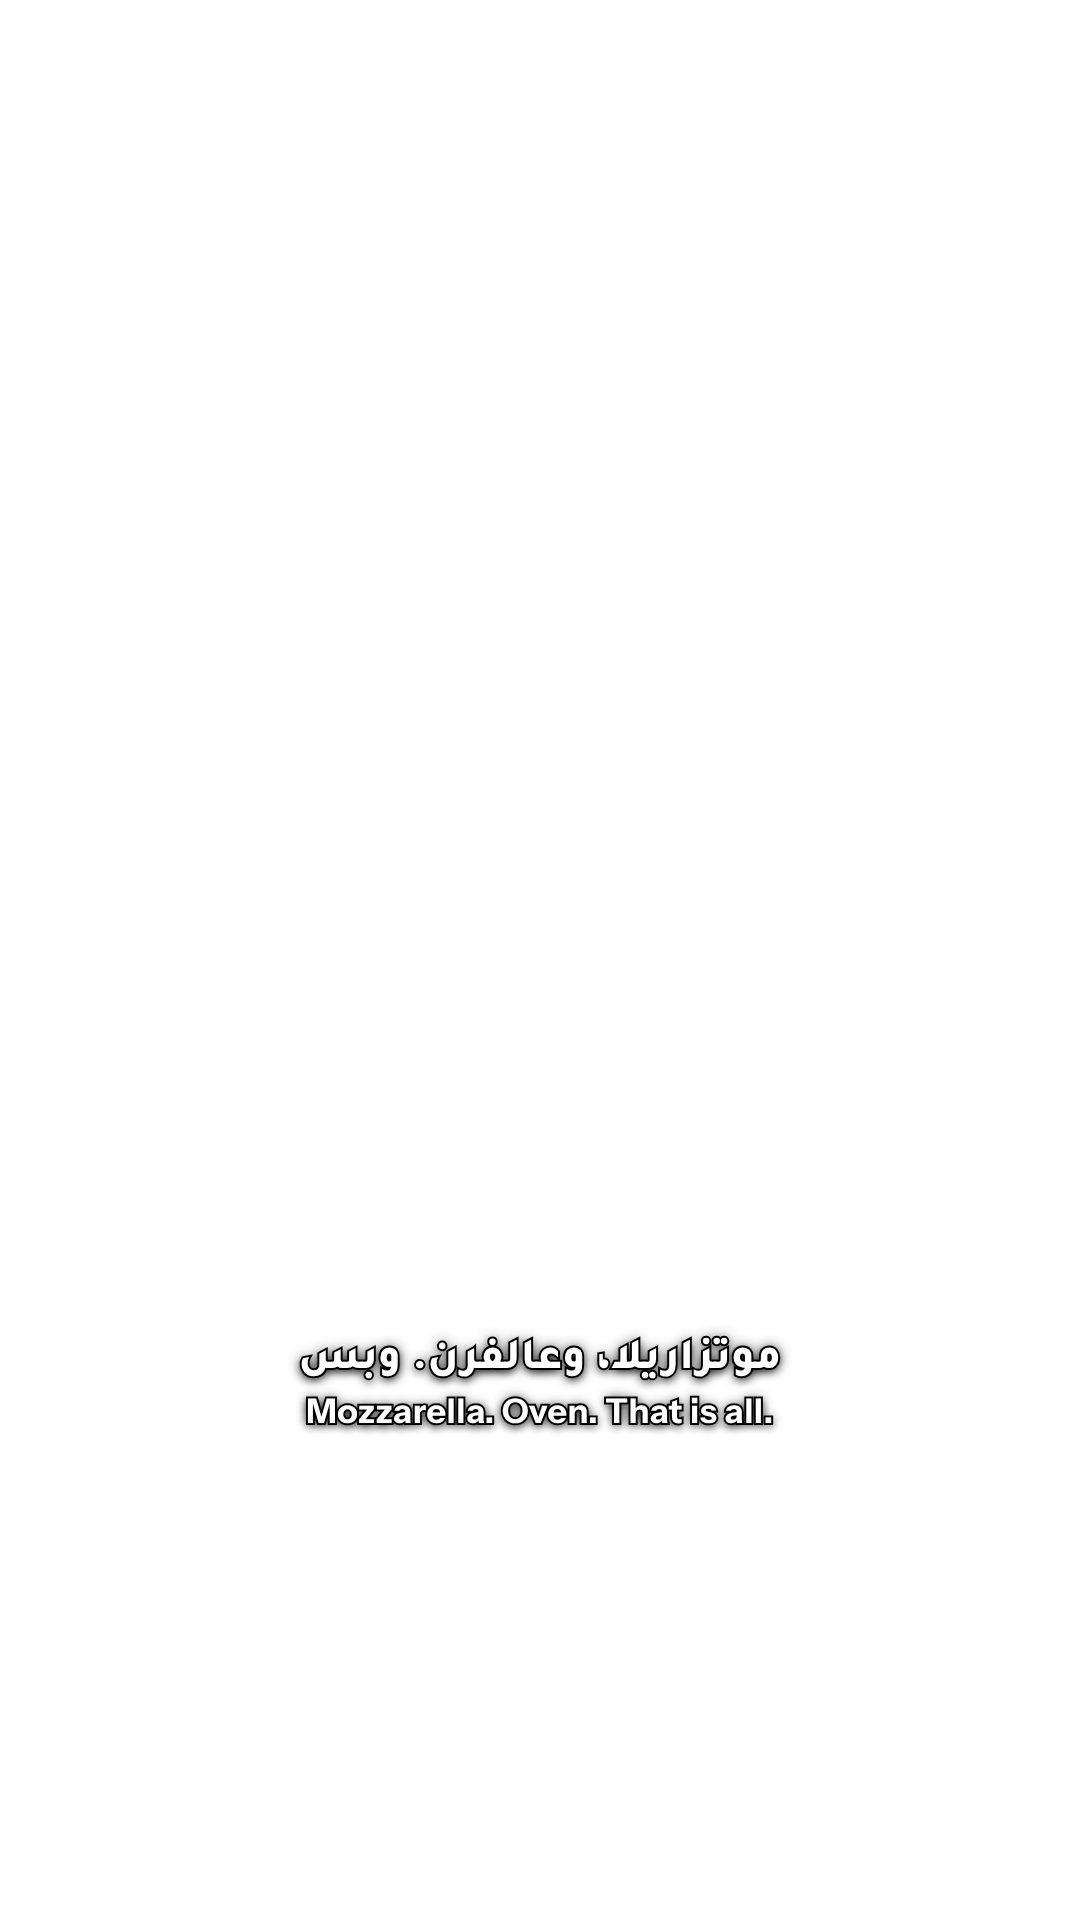
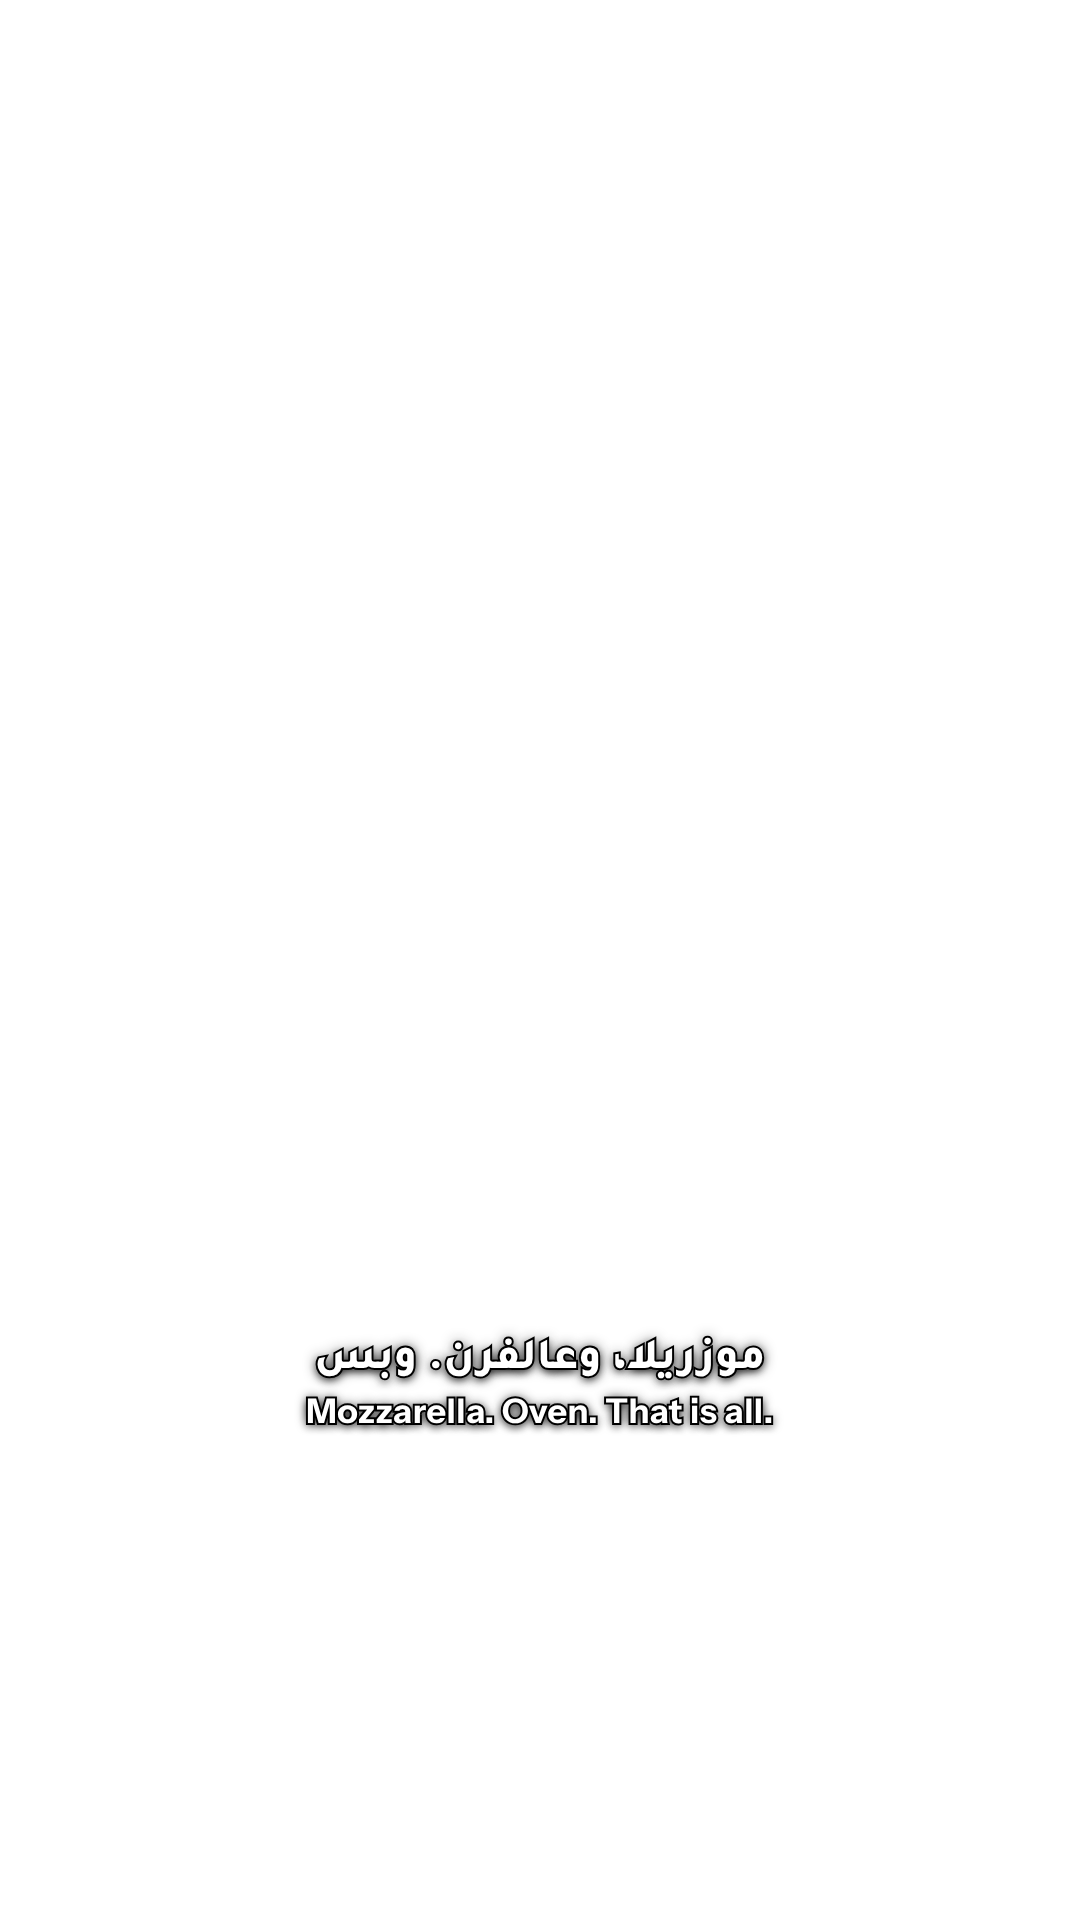
Honeycomb pasta pie v3: about 12 s with push-ins, mozzarella spelled as the owner writes it
Claude-Session: https://claude.ai/code/session_01TTQeKAFA689qdG4vjzm6Ms

Changed region(s): [[0.275, 0.6875, 0.7333, 0.7188]]

diff --git a/content-studio/edits/honeycomb-pasta-pie/edit_pie.py b/content-studio/edits/honeycomb-pasta-pie/edit_pie.py
@@ -7,16 +7,16 @@
 import subprocess, re
 FPS = 24
 SRC = 'raw.mp4'
-SEGS = [  # (first frame, end frame, speed, label, audio filter[, push-in (zoom from, to)])
-    (0, 47, 1.5, 'the honeycomb, his hand pressing', '', (1.0, 1.12)),
-    (72, 105, 1.4, 'he pipes the ricotta (face)', ''),
-    (105, 128, 1.5, 'ricotta in every tube, macro', ''),
-    (128, 157, 1.2, 'fingertip, no sauce yet', ''),
-    (157, 205, 2.0, 'the marinara pour', ''),
+SEGS = [  # v3 (owner on v2: «الفيديو صار قصير كثير»): about 12 s, push-ins on the calm shots instead of more speed
+    (0, 47, 1.25, 'the honeycomb, his hand pressing', '', (1.0, 1.12)),
+    (72, 105, 1.0, 'he pipes the ricotta (face)', ''),
+    (105, 128, 1.0, 'ricotta in every tube, macro', '', (1.0, 1.1)),
+    (128, 157, 1.0, 'fingertip, no sauce yet', ''),
+    (157, 205, 1.3, 'the marinara pour', '', (1.0, 1.1)),
     (205, 229, 1.0, 'the spoon pushes the sauce into the tubes', ''),
-    (229, 264, 1.3, 'mozzarella falls', ',volume=-4dB'),
-    (264, 292, 1.5, 'the oven glass, bubbling', ''),
-    (292, 337, 1.35, 'the slice lifted', ',equalizer=f=3500:t=o:w=2:g=6,volume=8dB'),   # the crunch, frames 301-328
+    (229, 264, 1.1, 'mozzarella falls', ',volume=-4dB'),
+    (264, 292, 1.15, 'the oven glass, bubbling', '', (1.0, 1.1)),
+    (292, 337, 1.0, 'the slice lifted', ',equalizer=f=3500:t=o:w=2:g=6,volume=8dB', (1.0, 1.08)),   # the crunch, frames 301-328
 ]
 
 
@@ -85,7 +85,7 @@ run(['ffmpeg', '-v', 'error', '-y', *ins, '-filter_complex', ';'.join(fc), '-map
      '-frames:v', str(round(TOTAL * FPS)),
      '-c:v', 'libx264', '-preset', 'slow', '-crf', '16', '-profile:v', 'high', '-pix_fmt', 'yuv420p',
      '-color_primaries', 'bt709', '-color_trc', 'bt709', '-colorspace', 'bt709', '-color_range', 'tv', '-r', str(FPS),
-     '-c:a', 'aac', '-b:a', '256k', '-movflags', '+faststart', 'honeycomb-pasta-pie-v2.mp4'])
+     '-c:a', 'aac', '-b:a', '256k', '-movflags', '+faststart', 'honeycomb-pasta-pie-v3.mp4'])
 for s, e, lab in labels: print(f'{s:6.2f}-{e:6.2f}  {lab}')
 print('cards', [(c, round(s, 2), round(e, 2)) for c, s, e in CARDS])
-print('total', round(TOTAL, 3), 'mix', I, P, 'final', meas('honeycomb-pasta-pie-v2.mp4'))
+print('total', round(TOTAL, 3), 'mix', I, P, 'final', meas('honeycomb-pasta-pie-v3.mp4'))

diff --git a/content-studio/generation-log.md b/content-studio/generation-log.md
@@ -84,6 +84,7 @@ new kind of error, a new check line.
 | 2026-11-12 | Honeycomb Pasta Pie (the crinkle way: the Crinkle Cake reel as the only video reference) | Seedance 2.5 omni_reference, 14 s, 720x1280 H.264 (the site setting read 720p), bitrate high, audio; the crinkle reel (re-uploaded as 4017b231), the Chef-Ahmad element; generated by the owner on his unlimited (job 1bef36f0, seed 690617), 0 credits | The round black springform, the upright rigatoni honeycomb, ricotta in every tube, the fingertip on the dry tops, the pour, the spoon pushing the sauce into the holes, the oven glass, the slice with the standing tubes and the cheese stretch; bare hands; no text, no talking; cuts at 3.0, 4.38, 5.33, 6.54, 8.54, 9.54, 11.0, 12.17 | 1.95-3.0 s a fist alone under the pan; 3.0-4.4 s the piping shot became his medium shot with face, t-shirt, apron and black gloves (the element pulled his usual look); mozzarella falls as fine grated cheese; -28.9 LUFS | The element photo carries his outfit into any shot that frames more than hands | Next crinkle-way take: no element for a hands-only reel, or write the jacket into every shot; frame every shot on the hands | not posted |
 | 2026-11-12 | Honeycomb Pasta Pie, the edit v1 (the crinkle way) | Higgsfield sandbox, 0 credits; 11.625 s 1080x1920 H.264 (media f99a7649) | Trims only (the fist and the face shot cut), no flash, no reorder; the crinkle's six cards at its measured sizes and places; -14.5 LUFS; prepublish DEAD 9 / SLOW 1 of 23 against the crinkle's DEAD 10 / SLOW 4 of 28 | Upscaled from 720p; the piping step is gone with the face shot (its result shows) | | edits/honeycomb-pasta-pie | not posted |
 | 2026-11-12 | Honeycomb Pasta Pie, the edit v2 (owner: the face stays, speed the slow shots, the crunch loud) | Higgsfield sandbox, 0 credits; 9.21 s 1080x1920 H.264 (media bdb26061) | The face shot back; speeds 1.2-2.0x and a push-in on the opening; the slice crunch +8 dB with a 3.5 kHz lift, now the loudest; prepublish DEAD 1 / SLOW 5 of 19 (v1 DEAD 9 / SLOW 1 of 23); -14.6 LUFS | The last 0.2 s still (the cheese stretch under the crunch) | Unlimited renders 720p only (owner) | edits/honeycomb-pasta-pie | not posted |
+| 2026-11-12 | Honeycomb Pasta Pie, the edit v3 (owner: v2 too short; «موزريلا») | Higgsfield sandbox, 0 credits; 11.875 s 1080x1920 H.264 (media 7654da47) | Speeds 1.0-1.3 with slow push-ins on the calm shots; the slice crunch the loudest; prepublish DEAD 1 / SLOW 7 of 24; -14.6 LUFS | | Length: the owner wants about 12 s, not 9; motion from push-ins, not only speed | edits/honeycomb-pasta-pie | not posted |
 | 2026-11-12 (3 h 27 min) | Onion Garlic Chicken Pasta, second read | (posted 4:30 PM) | share, save, repost and comment rates "higher"; Reels tab 81.9%, Explore 13.6% (the first hour's Feed 100% was only the start) | 2,346 views (6th of the last 10), 1,312 viewers, avg 5.87 s of 12.3 s, skip 59.2% ("higher"), 6 likes, 1 comment, 2 reposts, 3 shares, 3 saves, 1 follow; 97.4% non-followers. Retention off the graph: about 82% at 1 s, 51% at 2 s, 44% at 3 s, 34% at 6 s, 16% at the end | The 0.67 s flash then raw onions (see the 1 h read) | Compare with the potato's opening (next row) | 3.5 h: skip 59.2%, avg 5.87 s, end ~16%, 1.3 shares/1K, 1.3 saves/1K |
 | 2026-11-12 (1 h 17 min) | Crispy Potato Nests v1, first read (posted 6:40 PM as a trial reel, non-followers only) | (see the edit row) | skip "lower" than typical; like, save and comment rates "higher" | 1,432 views (9th of the last 10, still young), 788 viewers, avg 5.57 s of 10.4 s, skip 47.7%, 6 likes, 1 comment, 0 shares, 4 saves, 0 follows; 100% non-followers. Retention: about 84% at 1 s, 72% at 2 s, 56% at 3 s, 41% at 5 s, 22% at the end. Meta shows its automatic "AI info" label on it | Against the pasta: +21 points at 2 s (the face, the bite's crunch and the hook held), then -16 points from 2 to 3 s while the raw sticks, the water and the mix play and the hook card changes to the rehook at 1.83 s. The label is not blocking reach: more views at 1 h 17 min than Honey v5 (996) or Kibbeh (1,320) at the same age | Owner: wait for the no-text Pan Chocolate Cake read before changing the text. Next variable to test after it: no raw prep before 3 s (the bite, then the sizzle). Owner's verdict: «الفيديو ضعيف», not the AI label (check 21) | 1 h 17 min: skip 47.7%, avg 5.57 s, end ~22%, 0 shares, 2.8 saves/1K |
 | 2026-11-12 (first read) | Ad film "No Secrets" v3, trial reel to non-followers | (see the row above) | 11% stayed from 5 s to the end (19 s); comment rate 2.6% "higher" | Retention ~90% at 1 s, ~22% at 1.9 s, ~11% from 5 s; reposts 0%; Reels tab 90%, Explore 10% | The book cover close-up with «٣٦١ وصفة؟!» at 0.7-1.7 s (an ad signal); talking heads; the food first at 8.7 s | Skill rule: no product before the food in an organic reel; open on the food or the reaction | 90% at 1 s, 22% at 1.9 s, 11% end |

diff --git a/content-studio/edits/honeycomb-pasta-pie/edit-notes.md b/content-studio/edits/honeycomb-pasta-pie/edit-notes.md
@@ -1,6 +1,12 @@
 # Honeycomb Pasta Pie: the edit, the crinkle way (2026-11-12)
 
-## v2 (the one to use): https://d2ol7oe51mr4n9.cloudfront.net/user_2x0tp0odsOo92J2AkNG46XQD8Gw/bdb26061-544f-4324-a5de-9412eb398b84.mp4
+## v3 (the one to use): https://d2ol7oe51mr4n9.cloudfront.net/user_2x0tp0odsOo92J2AkNG46XQD8Gw/7654da47-6c43-416b-9033-53109f142838.mp4
+Media 7654da47-6c43-416b-9033-53109f142838, 1080x1920 H.264, 11.875 s (285 frames), -14.6 LUFS, -1.3 dBTP. Build: `edit_pie.py`.
+Owner on v2: «الفيديو صار قصير كثير وانت كاتب موتزريلاء بدلا موزريلاء». Speeds back near 1x (1.0-1.3), slow push-ins on the
+calm shots (opening 1.00-1.12, ricotta macro, pour, oven, slice 1.00-1.10) instead of more speed; the card spelled «موزريلا».
+prepublish: DEAD 1 (2.0 s, the face shot at 1x), SLOW 7 of 24; loudest 11.5, 11.0, 10.5 s (the slice crunch), then 0.0 s.
+
+## v2 (replaced, 9.21 s: too short): https://d2ol7oe51mr4n9.cloudfront.net/user_2x0tp0odsOo92J2AkNG46XQD8Gw/bdb26061-544f-4324-a5de-9412eb398b84.mp4
 Media bdb26061-544f-4324-a5de-9412eb398b84, 1080x1920 H.264, 9.21 s, -14.6 LUFS, -1.2 dBTP. Build: `edit_pie.py` (v1: `edit_pie_v1.py`).
 Owner on v1: «عادي الوجه يضل بس أشياء بطيئة سرعها وصوت الهرش يكون قوي»; unlimited renders 720p only, higher costs credits.
 | Output | Source frames | Shot | Speed | Sound |
@@ -15,7 +21,7 @@ Owner on v1: «عادي الوجه يضل بس أشياء بطيئة سرعها 
 | 7.04-7.83 | 264-292 | the oven glass | 1.5x | |
 | 7.83-9.21 | 292-337 | the slice lifted, the crunch | 1.35x | +8 dB, +6 dB at 3.5 kHz: the loudest sound |
 Cards: title 0-1.29 (off before the face shot, its y 529 is his chin), hook 0-2.29 (on his apron in the face shot),
-proof 2.29-4.42, the right way 4.42-5.92, «موتزاريلا، وعالفرن. وبس» 5.92-7.44, the question 7.44-9.21.
+proof 2.29-4.42, the right way 4.42-5.92, «موزريلا، وعالفرن. وبس» 5.92-7.44, the question 7.44-9.21.
 prepublish: DEAD 1 (the last 0.2 s, the cheese stretch under the crunch), SLOW 5 of 19 (v1: DEAD 9, SLOW 1 of 23);
 loudest 9.0, 8.5, 8.0 s (the slice crunch), then 0.0 s.
 
@@ -57,7 +63,7 @@ The crinkle: title about 28 px at y 531-593 and the hook about 30 px at y 1238-1
 | 0.00-2.92 | title «فطيرة الباستا قرص العسل (كيكة الريغاتوني)» / "Honeycomb Pasta Pie (Rigatoni Cake)" (y 529) + hook «خلط الباستا بالصلصة هو الغلطة» / "Mixing the pasta with the sauce is the mistake" (y 1237) |
 | 2.92-5.00 | «لسا ولا نقطة صلصة» / "Still not a drop of sauce" |
 | 5.00-7.12 | «هون بتنزل. جوّا الأنابيب» / "Here it goes. Inside the tubes." |
-| 7.12-8.90 | «موتزاريلا، وعالفرن. وبس» / "Mozzarella. Oven. That is all." |
+| 7.12-8.90 | «موزريلا، وعالفرن. وبس» / "Mozzarella. Oven. That is all." |
 | 8.90-11.62 | «بتخلط الباستا بالصلصة؟» / "Do you mix pasta and sauce?" |
 Keyword CTA in the caption and the pinned comment only (RIGATONI / «ريغاتوني»), as the crinkle.
 

diff --git a/content-studio/hook-log.md b/content-studio/hook-log.md
@@ -29,4 +29,4 @@ Right Way, #8 Insider Leak, #10 If This Then Watch, #12 Objection, #13 Before/Af
 #20 Permission, #22 Contrarian Flip, #23 Statistic, #24 Reveal, #25 Someone Else's Result.
 | Onion Garlic Chicken Pasta (edited 2026-11-12, 12.29 s) | none: the sweet potato way, a 0.67 s fork flash, then raw onions to 3.6 s | none | «اكتب «باستا» 👇» / "Comment PASTA 👇" over the bite only. 1 h: skip 61.9% |
 | Crispy Potato Nests (edited 2026-11-12, 10.4 s, the pistachio way) | الطريقة الوحيدة ولادك بينسوا الشيبس (Superlative for the family cook; hookscore 84.2) | بلا ٤ معالق نشا… بتطرى (Cause of a failure; 81.4) | «اكتب «بطاطا» 👇» / "Comment POTATO 👇" on the last face shot only |
-| Honeycomb Pasta Pie (edited 2026-11-12, 11.6 s, the crinkle way) | خلط الباستا بالصلصة هو الغلطة (X is the mistake, the crinkle's own shape) | لسا ولا نقطة صلصة (the crinkle's proof line) | «هون بتنزل. جوّا الأنابيب»، «موتزاريلا، وعالفرن. وبس»، «بتخلط الباستا بالصلصة؟»; keyword RIGATONI in the caption and pinned comment only |
+| Honeycomb Pasta Pie (edited 2026-11-12, 11.6 s, the crinkle way) | خلط الباستا بالصلصة هو الغلطة (X is the mistake, the crinkle's own shape) | لسا ولا نقطة صلصة (the crinkle's proof line) | «هون بتنزل. جوّا الأنابيب»، «موزريلا، وعالفرن. وبس»، «بتخلط الباستا بالصلصة؟»; keyword RIGATONI in the caption and pinned comment only |

diff --git a/.claude/skills/reels-director/SKILL.md b/.claude/skills/reels-director/SKILL.md
@@ -74,6 +74,8 @@ Every new reel, the crinkle way:
    box, middle of the frame; the keyword CTA moves to the caption and the pinned comment.
 4. Edit: no flash, no reorder. Owner on the pasta pie (2026-11-12): speed every slow shot (1.2-2x; a push-in on a still
    opening), make the crunch or crackle the loudest sound (gain and a lift at 3.5 kHz), and his face may stay in a shot.
+   Length about 12 s (owner on v2 at 9.2 s: «الفيديو صار قصير كثير»): keep speeds near 1.0-1.3 and give calm shots a slow
+   push-in instead of more speed. Arabic spelling (owner): «موزريلا».
    Then the checks below (pre-publish, opening, phone check).
 5. Generation: the owner's unlimited on higgsfield.ai renders 720p only; anything higher costs credits. Keep 720p and
    upscale to 1080x1920 in the edit, unless he asks for credits.
